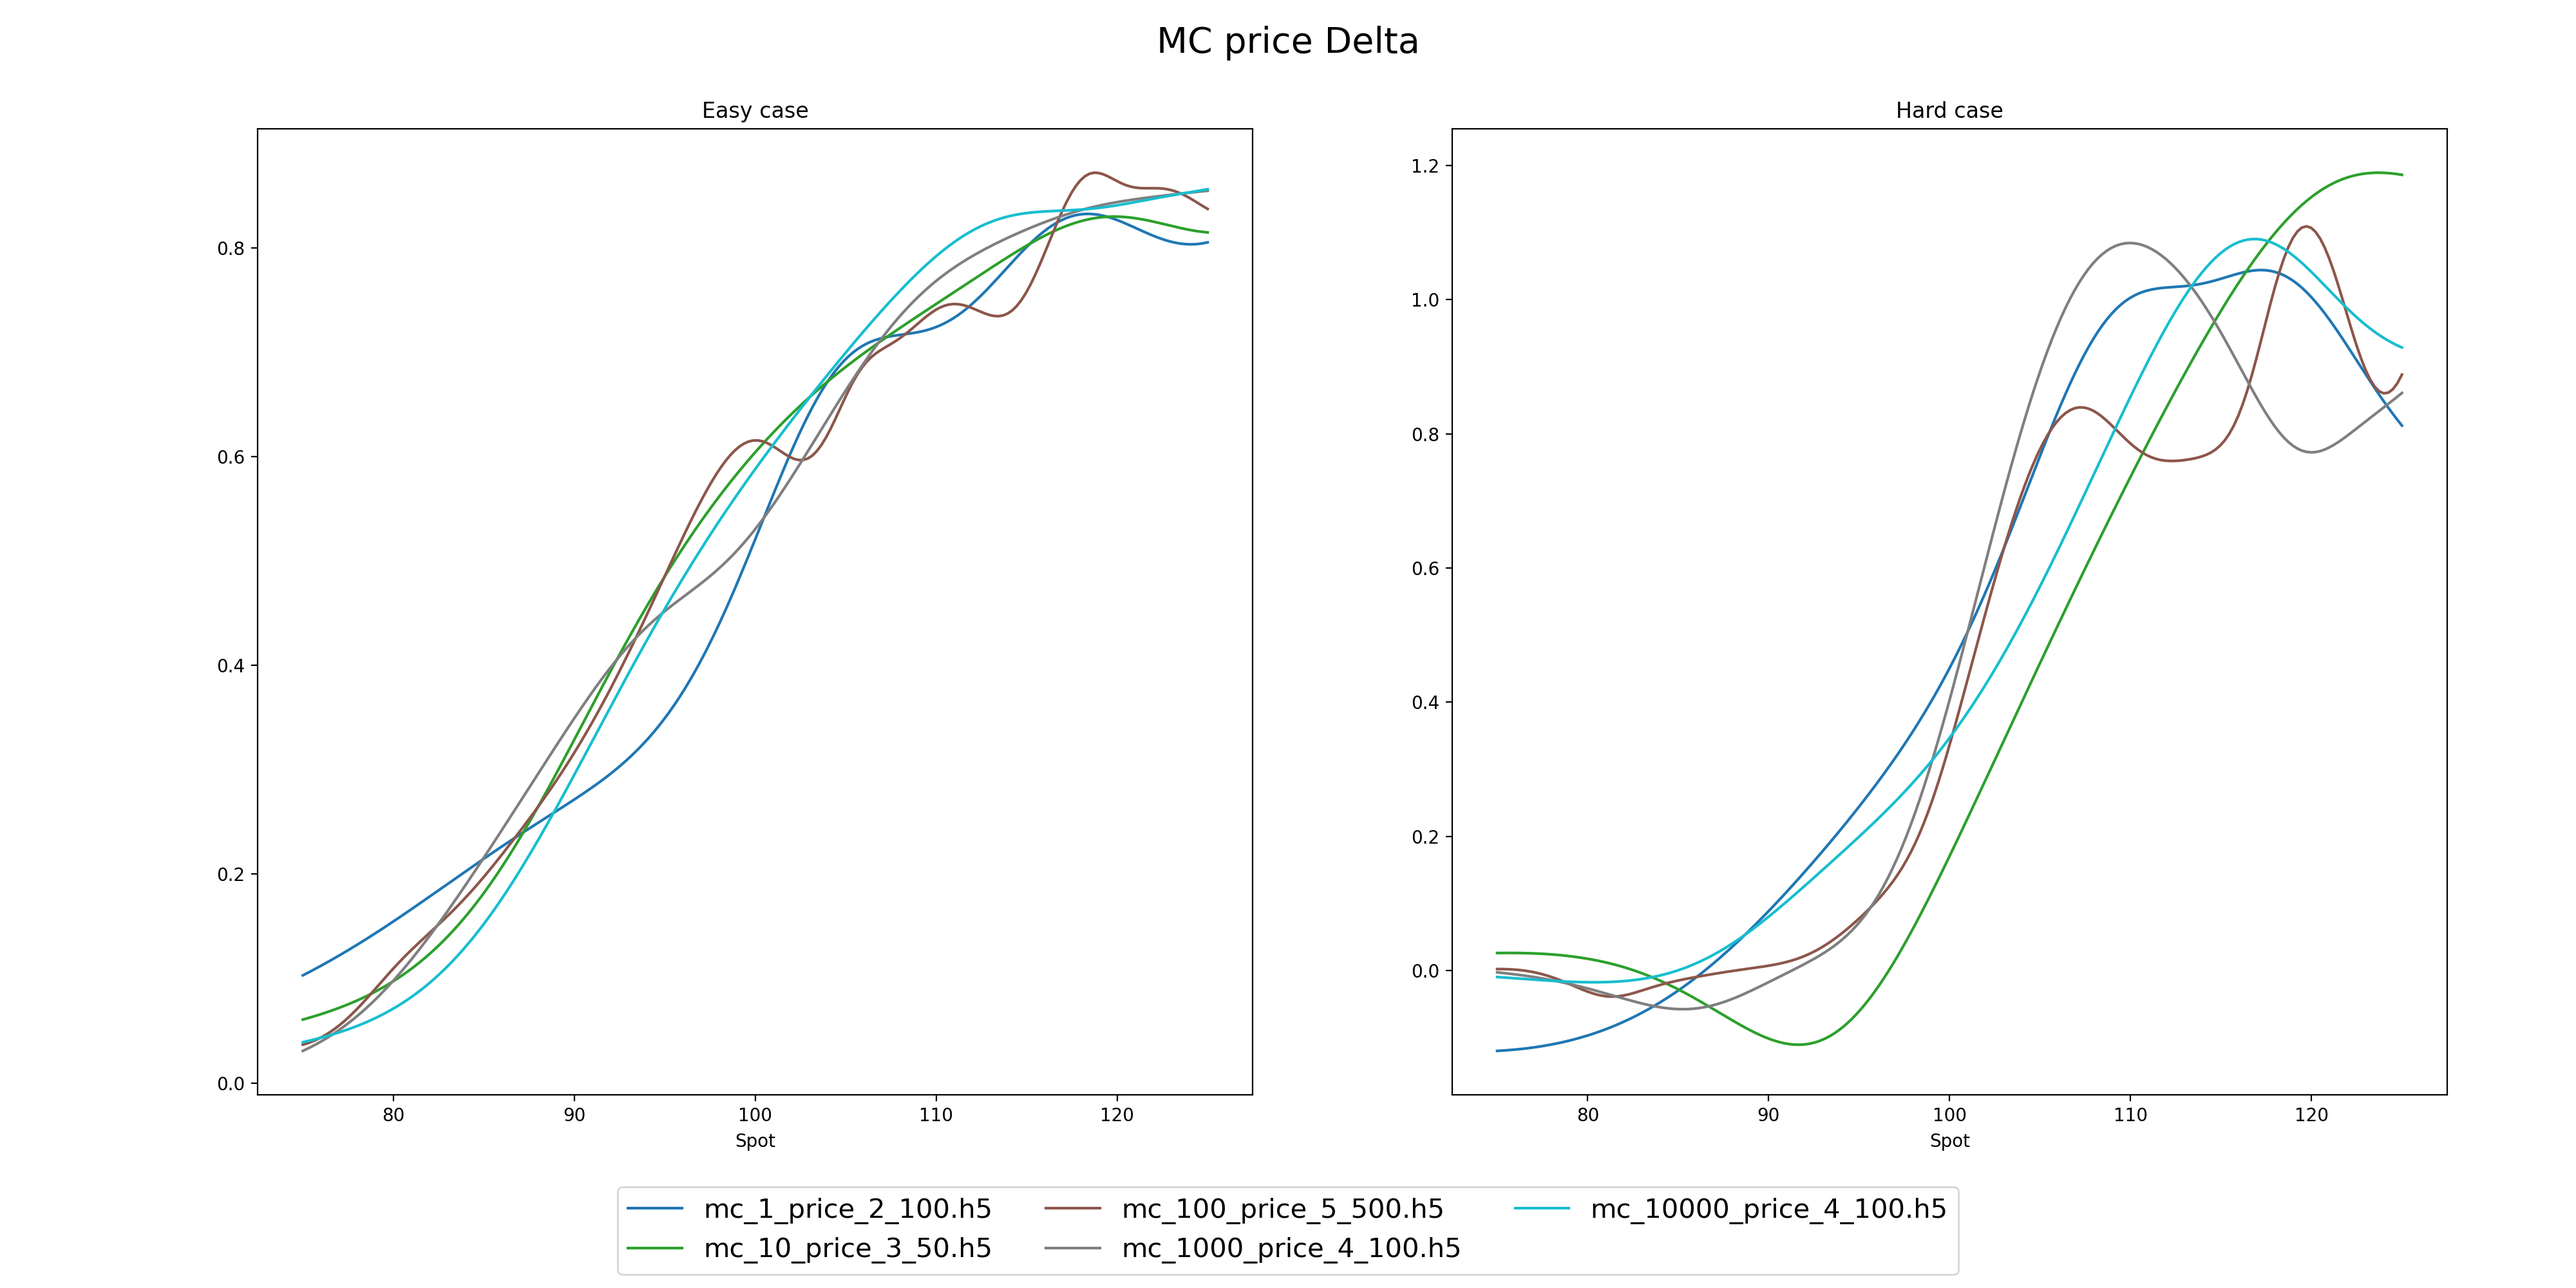
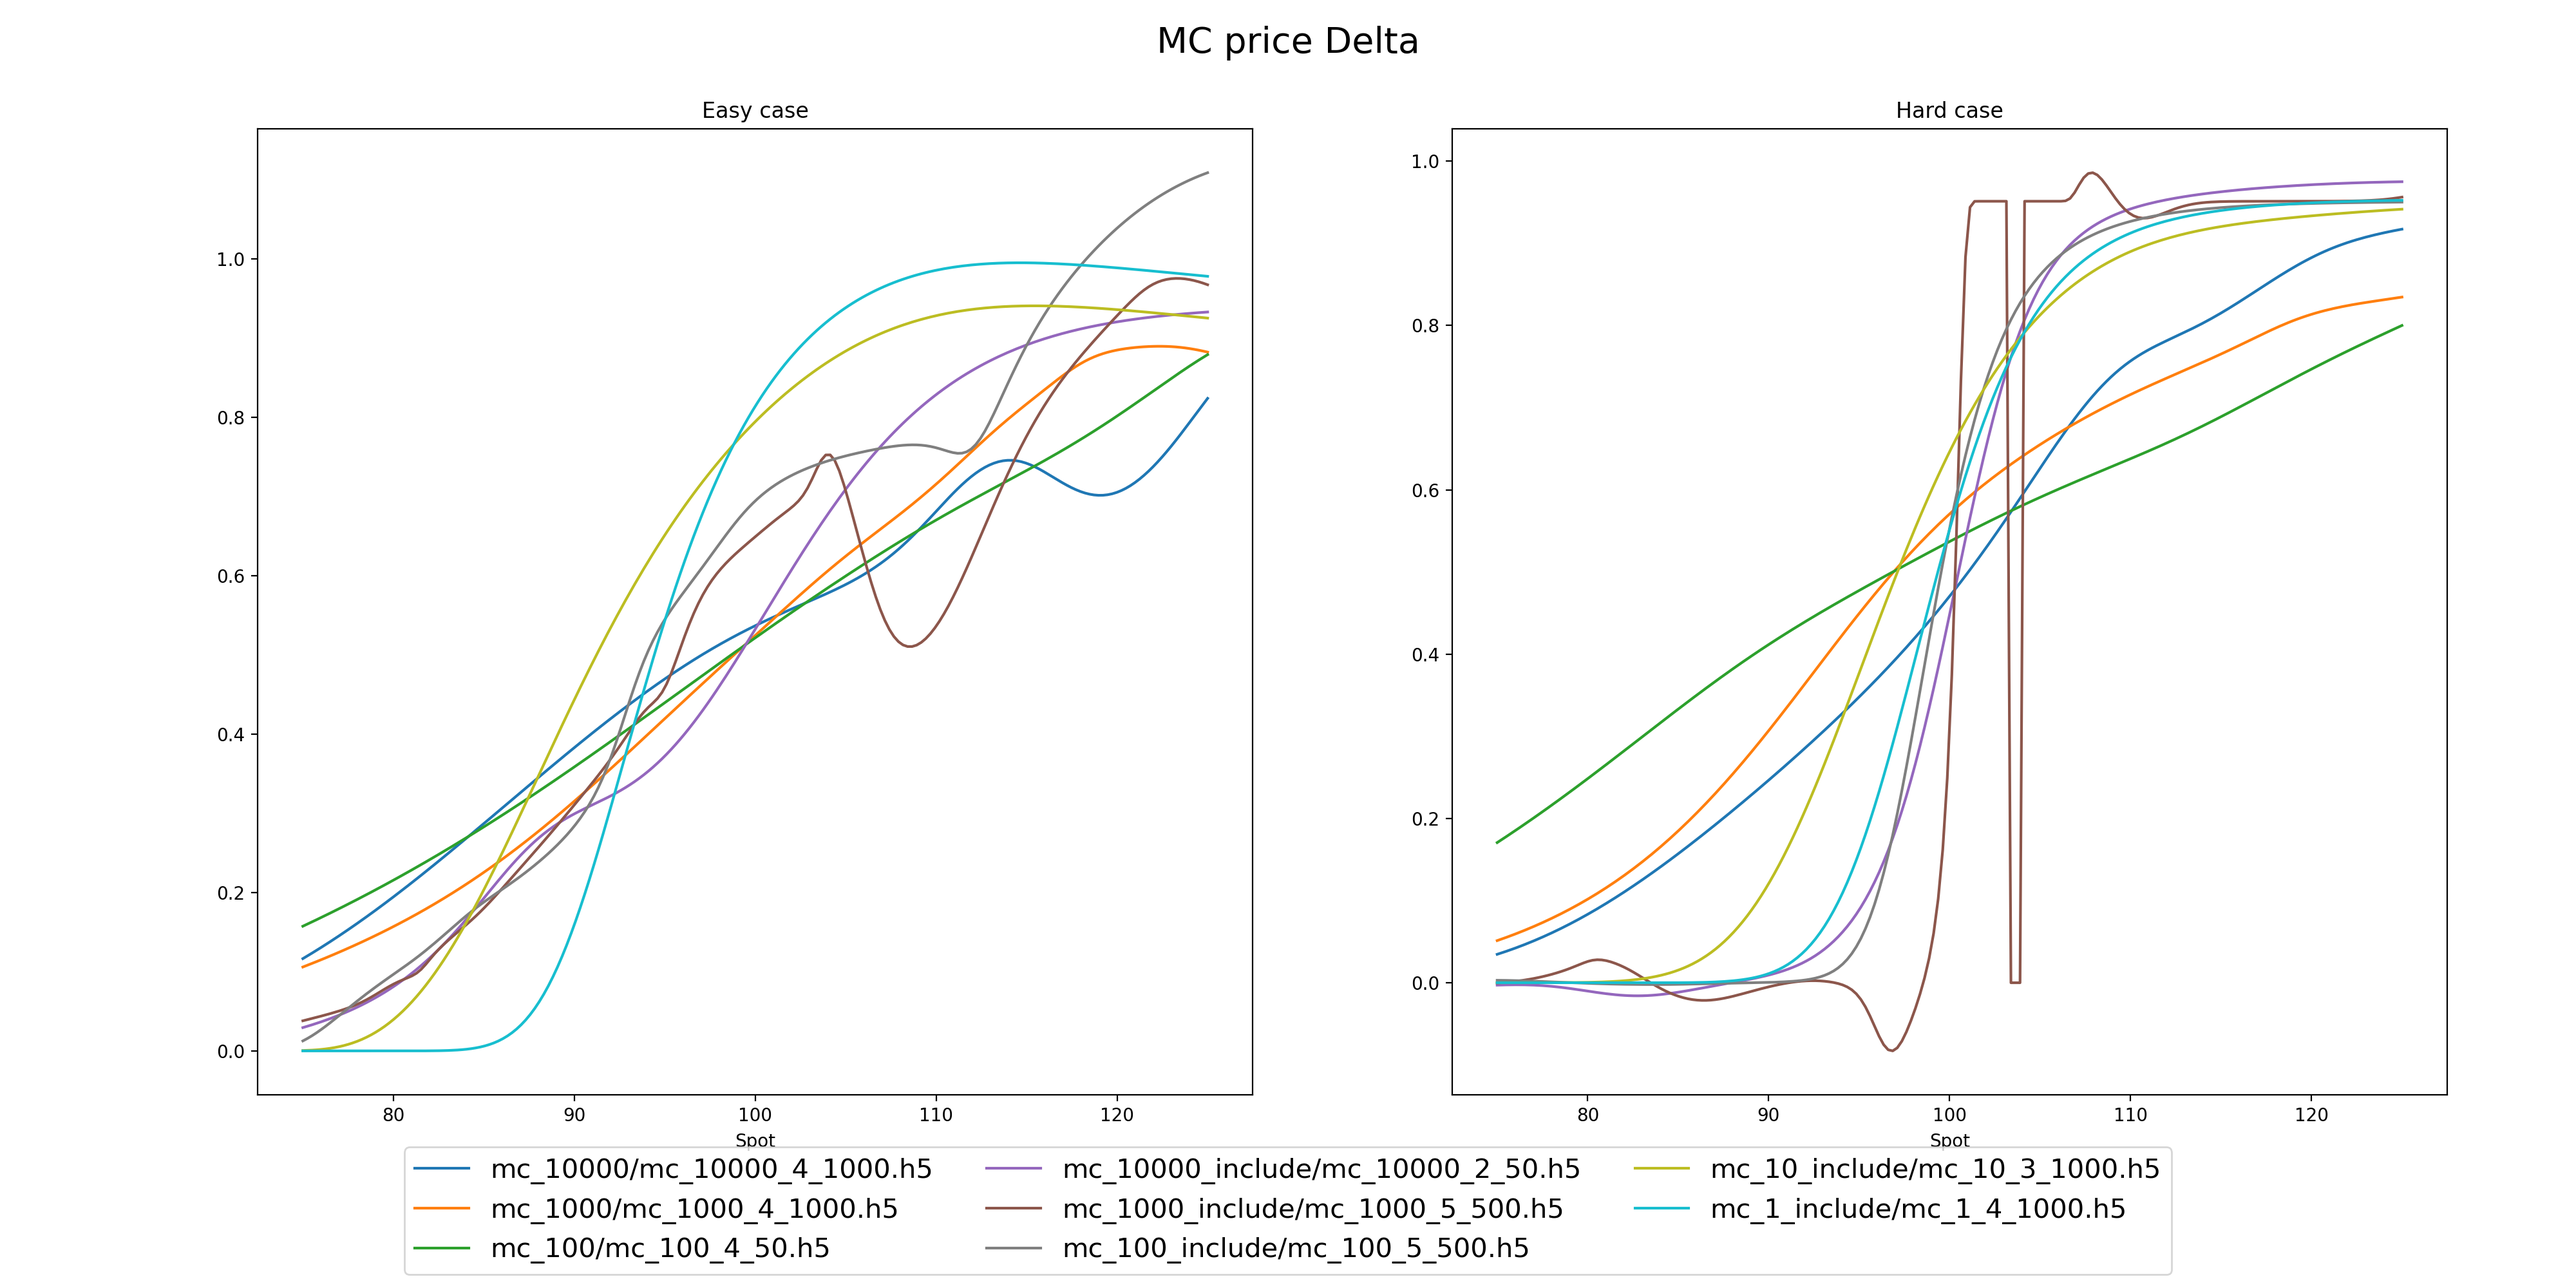
Ready for models

diff --git a/Thesis/Heston/MC_al.py b/Thesis/Heston/MC_al.py
@@ -166,22 +166,23 @@ def calc_prices(spot : float, epsilon : float):
 def model_grads(model_string : str, easy_case : np.ndarray, hard_case : np.ndarray, option : vo.VanillaOption, standardize : bool) -> dict:
     model = load_model(model_string)
     model_folder = model_string[:model_string.rfind("/") + 1]
-    norm_feature = joblib.load(model_folder+"norm_feature.pkl")
+    if os.path.exists(model_folder+"norm_feature.pkl"):
+        norm_feature = joblib.load(model_folder+"norm_feature.pkl")
+    else:
+        if (model_string.find("mc") != -1):
+            norm_feature = joblib.load("Models4/Heston_input_scale.pkl")
+            if (model_string.find("price") != -1):
+                norm_labels = joblib.load(model_string[:model_string.rfind("/")+1]+"price_scale.pkl")
+        elif standardize:
+            norm_feature = joblib.load("Models4/norms/standard_features.pkl")
+        else:
+            norm_feature = joblib.load("Models4/norms/norm_feature.pkl")
+
     if os.path.exists(model_folder+"/norm_labels.pkl"):
         norm_labels = joblib.load(model_folder+"norm_labels.pkl")
         normal_out = True
     else:
         normal_out = False
-    """
-    if (model_string.find("mc") != -1):
-        norm_feature = joblib.load("Models4/Heston_input_scale.pkl")
-        if (model_string.find("price") != -1):
-            norm_labels = joblib.load(model_string[:model_string.rfind("/")+1]+"price_scale.pkl")
-    elif standardize:
-        norm_feature = joblib.load("Models4/norms/standard_features.pkl")
-    else:
-        norm_feature = joblib.load("Models4/norms/norm_feature.pkl")
-    """
 
     if isinstance(norm_feature, MinMaxScaler):
         grads_scale = 1 / (norm_feature.data_max_[0] - norm_feature.data_min_[0])
@@ -429,10 +430,10 @@ if __name__ == "__main__":
     noise_model = "Models4/noise/noise_5_500.h5"
     noise_dict = model_grads(noise_model, input_good_easy, input_good_hard, some_option, True)
 
-    mc_price_model = "Models4/mc_10000/price/mc_10000_price_4_100.h5"
-    mc_price_dict = model_grads(mc_price_model, input_good_easy, input_good_hard, some_option, True)
+    #mc_price_model = "Models4/mc_10000/price/mc_10000_price_4_100.h5"
+    #mc_price_dict = model_grads(mc_price_model, input_good_easy, input_good_hard, some_option, True)
 
-    mc_imp_model = "Models4/mc_10000/mc_10000_4_1000.h5"
+    mc_imp_model = "Models4/mc_10000_include/mc_10000_2_50.h5"
     mc_imp_dict = model_grads(mc_imp_model, input_good_easy, input_good_hard, some_option, True)
 
     final2_model = "Models4/final2/final2_5_1000.h5"
@@ -441,16 +442,24 @@ if __name__ == "__main__":
     mix_model = "Models4/activation_functions/mix_5_1000.h5"
     mix_dict = model_grads(mix_model, input_good_easy, input_good_hard, some_option, False)
 
+    new_data_model = "Models4/new_data/new_data_4_500.h5"
+    new_data_model_dict = model_grads(new_data_model, input_good_easy, input_good_hard, some_option, False)
+
+    new_data_include = "Models4/new_data_include_zero/include_zero_3_1000.h5"
+    new_data_include_dict = model_grads(new_data_include, input_good_easy, input_good_hard, some_option, False)
+
     prediction_data = {
         "Andersen Lake" : [al_predict1, al_predict2],
         "Monte Carlo" : [mc_predict1, mc_predict2],
         "Andersen Lake, multi" : [al_multi_predict1, al_multi_predict2],
         "Monte Carlo, multi" : [mc_multi_predict1, mc_multi_predict2],
         "Noise model" : [noise_dict["pred"][0], noise_dict["pred"][1]],
-        "MC Price" : [mc_price_dict["pred"][0], mc_price_dict["pred"][1]],
+        #"MC Price" : [mc_price_dict["pred"][0], mc_price_dict["pred"][1]],
         "MC Imp" : [mc_imp_dict["pred"][0], mc_imp_dict["pred"][1]],
         "Final model" : [final2_dict["pred"][0], final2_dict["pred"][1]],
-        "Mix model" : [mix_dict["pred"][0], mix_dict["pred"][1]]
+        "Mix model" : [mix_dict["pred"][0], mix_dict["pred"][1]],
+        "New data" : [new_data_model_dict["pred"][0], new_data_model_dict["pred"][1]],
+        "New data, include" : [new_data_include_dict["pred"][0], new_data_include_dict["pred"][1]]
     }
 
     delta_data = {
@@ -459,10 +468,12 @@ if __name__ == "__main__":
         "Andersen Lake, multi" : [al_multi_grads1[:,0], al_multi_grads2[:,0]],
         "Monte Carlo, multi" : [mc_multi_grads1[:,0], mc_multi_grads2[:,0]],
         "Noise model" : [noise_dict["delta"][0], noise_dict["delta"][1]],
-        "MC Price" : [mc_price_dict["delta"][0], mc_price_dict["delta"][1]],
+        #"MC Price" : [mc_price_dict["delta"][0], mc_price_dict["delta"][1]],
         "MC Imp" : [mc_imp_dict["delta"][0], mc_imp_dict["delta"][1]],
         "Final model" : [final2_dict["delta"][0], final2_dict["delta"][1]],
-        "Mix model" : [mix_dict["delta"][0], mix_dict["delta"][1]]
+        "Mix model" : [mix_dict["delta"][0], mix_dict["delta"][1]],
+        "New data" : [new_data_model_dict["delta"][0], new_data_model_dict["delta"][1]],
+        "New data, include" : [new_data_include_dict["delta"][0], new_data_include_dict["delta"][1]]
     }
 
     gamma_data = {
@@ -471,10 +482,12 @@ if __name__ == "__main__":
         "Andersen Lake, multi" : [al_multi_grads1_2[:,0], al_multi_grads2_2[:,0]],
         "Monte Carlo, multi" : [mc_multi_grads1_2[:,0], mc_multi_grads2_2[:,0]],
         "Noise model" : [noise_dict["gamma"][0], noise_dict["gamma"][1]],
-        "MC Price" : [mc_price_dict["gamma"][0], mc_price_dict["gamma"][1]],
+        #"MC Price" : [mc_price_dict["gamma"][0], mc_price_dict["gamma"][1]],
         "MC Imp" : [mc_imp_dict["gamma"][0], mc_imp_dict["gamma"][1]],
         "Final model" : [final2_dict["gamma"][0], final2_dict["gamma"][1]],
-        "Mix model" : [mix_dict["gamma"][0], mix_dict["gamma"][1]]
+        "Mix model" : [mix_dict["gamma"][0], mix_dict["gamma"][1]],
+        "New data" : [new_data_model_dict["gamma"][0], new_data_model_dict["gamma"][1]],
+        "New data, include" : [new_data_include_dict["gamma"][0], new_data_include_dict["gamma"][1]]
     }
 
     plot_func(spot_plot, prediction_data, "Predictions")
@@ -502,16 +515,16 @@ if __name__ == "__main__":
 
     ### Different MC models
     # 1 path
-    mc_price_list = [
-        "Models4/mc_1/price/mc_1_price_2_100.h5",
-        "Models4/mc_10/price/mc_10_price_3_50.h5",
-        "Models4/mc_100/price/mc_100_price_5_500.h5",
-        "Models4/mc_1000/price/mc_1000_price_4_100.h5",
-        "Models4/mc_10000/price/mc_10000_price_4_100.h5",
+    mc_list= [
+        #"Models4/mc_1/price/mc_1_price_2_100.h5",
+        #"Models4/mc_10/price/mc_10_price_3_50.h5",
+        #"Models4/mc_100/price/mc_100_price_5_500.h5",
+        #"Models4/mc_1000/price/mc_1000_price_4_100.h5",
+        #"Models4/mc_10000/price/mc_10000_price_4_100.h5",
         "Models4/mc_10000/mc_10000_4_1000.h5",
         "Models4/mc_1000/mc_1000_4_1000.h5",
         "Models4/mc_100/mc_100_4_50.h5",
-        "Models4/mc_10/mc_10_1_50.h5",
+        #"Models4/mc_10/mc_10_1_50.h5",
         "Models4/mc_10000_include/mc_10000_2_50.h5",
         "Models4/mc_1000_include/mc_1000_5_500.h5",
         "Models4/mc_100_include/mc_100_5_500.h5",
@@ -523,15 +536,15 @@ if __name__ == "__main__":
     mc_delta = {}
     mc_gamma = {}
     for model in mc_list:
-        name = model[model.rfind("/")+1:]
+        name = model[model.find("/")+1:]
         some_dict = model_grads(model, input_good_easy, input_good_hard, some_option, False)
         mc_pred[name] = [some_dict["pred"][0], some_dict["pred"][1]]
         mc_delta[name] = [some_dict["delta"][0], some_dict["delta"][1]]
         mc_gamma[name] = [some_dict["gamma"][0], some_dict["gamma"][1]]
 
-    plot_func(spot_plot, mc_pred, "MC price Predictions")
-    plot_func(spot_plot, mc_delta, "MC price Delta")
-    plot_func(spot_plot, mc_gamma, "MC price Gamma")
+    plot_func(spot_plot, mc_pred, "MC Predictions")
+    plot_func(spot_plot, mc_delta, "MC Delta")
+    plot_func(spot_plot, mc_gamma, "MC Gamma")
 
 """
     h = 0.01

diff --git a/Thesis/Heston/ModelGenerator.py b/Thesis/Heston/ModelGenerator.py
@@ -20,11 +20,14 @@ if __name__ == '__main__':
     
     model_input_1 = np.loadtxt("Data/hestonSobolGridInput2_compare2_200000.csv", delimiter = ",")
     imp_vol_1 = np.loadtxt("Data/sobol_imp_compare200000.csv", delimiter=",")
+    price_1 = np.loadtxt("Data/hestonSobolGridPrice2_compare2_200000.csv", delimiter=",")
 
     X_train = model_input_1[train_index, :]
     X_test = model_input_1[test_index, :]
     Y_train = imp_vol_1[train_index, :]
     Y_test = imp_vol_1[test_index, :]
+    Y_train_price = price_1[train_index, :]
+    Y_test_price = price_1[test_index, :]
 
     model_input_2 = np.loadtxt("Data/sobol_second_set_input200000.csv", delimiter = ",")
     imp_vol_2 = np.loadtxt("Data/sobol_second_set_imp_vol200000.csv", delimiter=",")
@@ -36,6 +39,7 @@ if __name__ == '__main__':
 
     data_set_1 = [X_train, X_test, Y_train, Y_test]
     data_set_2 = [X_train_2, X_test_2, Y_train_2, Y_test_2]
+    data_set_price = [X_train, X_test, Y_train_price, Y_test_price]
 
     layers = [1, 2, 3, 4, 5]
     neurons = [50, 100, 500, 1000]
@@ -58,8 +62,44 @@ if __name__ == '__main__':
         itertools.repeat("new_option"), layer_neuron_combs[:, 0], layer_neuron_combs[:, 1], \
         itertools.repeat("mix"), itertools.repeat(False), itertools.repeat(True), itertools.repeat(False)))
 
+    benchmark_list = list(zip(itertools.repeat(data_set_1), itertools.repeat("benchmark"), \
+        itertools.repeat("benchmark"), layer_neuron_combs[:, 0], layer_neuron_combs[:, 1], \
+        itertools.repeat("normal"), itertools.repeat(False), itertools.repeat(False), itertools.repeat(False)))
 
-    server_list = model_list_1 + model_list_2 + model_list_3 + model_list_4
+    benchmark_include_list = list(zip(itertools.repeat(data_set_1), itertools.repeat("benchmark_include"), \
+        itertools.repeat("benchmark_include"), layer_neuron_combs[:, 0], layer_neuron_combs[:, 1], \
+        itertools.repeat("normal"), itertools.repeat(False), itertools.repeat(False), itertools.repeat(True)))
+
+    output_scaling_list = list(zip(itertools.repeat(data_set_1), itertools.repeat("output_scaling"), \
+        itertools.repeat("output_scaling"), layer_neuron_combs[:, 0], layer_neuron_combs[:, 1], \
+        itertools.repeat("normal"), itertools.repeat(True), itertools.repeat(False), itertools.repeat(False)))
+
+    tanh_list = list(zip(itertools.repeat(data_set_1), itertools.repeat("tanh"), \
+        itertools.repeat("tanh"), layer_neuron_combs[:, 0], layer_neuron_combs[:, 1], \
+        itertools.repeat("tanh"), itertools.repeat(False), itertools.repeat(False), itertools.repeat(False)))
+
+    mix_list = list(zip(itertools.repeat(data_set_1), itertools.repeat("mix"), \
+        itertools.repeat("mix"), layer_neuron_combs[:, 0], layer_neuron_combs[:, 1], \
+        itertools.repeat("mix"), itertools.repeat(False), itertools.repeat(False), itertools.repeat(False)))
+
+    price_list = list(zip(itertools.repeat(data_set_price), itertools.repeat("price"), \
+        itertools.repeat("price"), layer_neuron_combs[:, 0], layer_neuron_combs[:, 1], \
+        itertools.repeat("normal"), itertools.repeat(False), itertools.repeat(False), itertools.repeat(False)))
+
+    price_output_scaling_list = list(zip(itertools.repeat(data_set_price), itertools.repeat("output_scaling_price"), \
+        itertools.repeat("output_scaling_price"), layer_neuron_combs[:, 0], layer_neuron_combs[:, 1], \
+        itertools.repeat("normal"), itertools.repeat(True), itertools.repeat(False), itertools.repeat(False)))
+
+    standardize_list = list(zip(itertools.repeat(data_set_1), itertools.repeat("standardize"), \
+        itertools.repeat("standardize"), layer_neuron_combs[:, 0], layer_neuron_combs[:, 1], \
+        itertools.repeat("normal"), itertools.repeat(False), itertools.repeat(True), itertools.repeat(False)))
+
+    noise_list = list(zip(itertools.repeat(data_set_1), itertools.repeat("noise"), \
+        itertools.repeat("noise"), layer_neuron_combs[:, 0], layer_neuron_combs[:, 1], \
+        itertools.repeat("normal"), itertools.repeat(False), itertools.repeat(True), itertools.repeat(False)))
+
+    compute10_list = benchmark_list + benchmark_include_list + output_scaling_list + tanh_list
+    compute12_list = mix_list + price_list + standardize_list + noise_list
 
     if cpu_count() == 4:
         cpu_cores = 4
@@ -67,5 +107,5 @@ if __name__ == '__main__':
         cpu_cores = int(min(cpu_count()/4, 16))
 
     pool = Pool(cpu_cores)
-    res = pool.starmap(mg.NN_mc_model_1, server_list, chunksize=1)
+    res = pool.starmap(mg.NN_mc_model_1, compute10_list, chunksize=1)
     pool.close()

diff --git a/Thesis/Heston/ModelTesting.py b/Thesis/Heston/ModelTesting.py
@@ -429,8 +429,11 @@ if __name__ == "__main__":
     price_standard.remove("Models4/price_standard/price_standard_5_1000.h5")
     price_standard.remove("Models4/price_standard/price_standard_5_500.h5")
     #generate_plots(price_standard, "price_standard")
-    test_models = glob.glob("Models4/test_models/*.h5")
-    test_models_mse = model_testing2(test_models, "test_models", easy_case(), hard_case(), option_input())
+    new_data = glob.glob("Models4/new_data/*.h5")
+    new_data_mse = model_testing2(new_data, "new_data", easy_case(), hard_case(), option_input())
+
+    new_data_include_zero = glob.glob("Models4/new_data_include_zero/*.h5")
+    new_data_include_zero_mse = model_testing2(new_data_include_zero, "net_data_include_zero", easy_case(), hard_case(), option_input())
 
     mc_models = glob.glob("Models4/mc_*/*.h5", recursive=True)
     mc_models_mse = model_testing2(mc_models, "test_models", easy_case(), hard_case(), option_input())

diff --git a/Thesis/Heston/NNModelGenerator.py b/Thesis/Heston/NNModelGenerator.py
@@ -28,8 +28,8 @@ def lr_schedule(epoch, rate):
     return lr
 
 def NNModelNext(data_set : list, folder : str, model_name : str, n_layers : int, n_neurons : int, nn_type : str,  normal_out : bool, standardize : bool) -> float:
-    model_save = "Models4/"+folder+"/"+model_name+"_"+str(n_layers)+"_"+str(n_neurons)+".h5"
-    model_path = "Models4/"+folder+"/"
+    model_save = "Models5/"+folder+"/"+model_name+"_"+str(n_layers)+"_"+str(n_neurons)+".h5"
+    model_path = "Models5/"+folder+"/"
 
     if not os.path.exists(model_path):
         os.makedirs(model_path)
